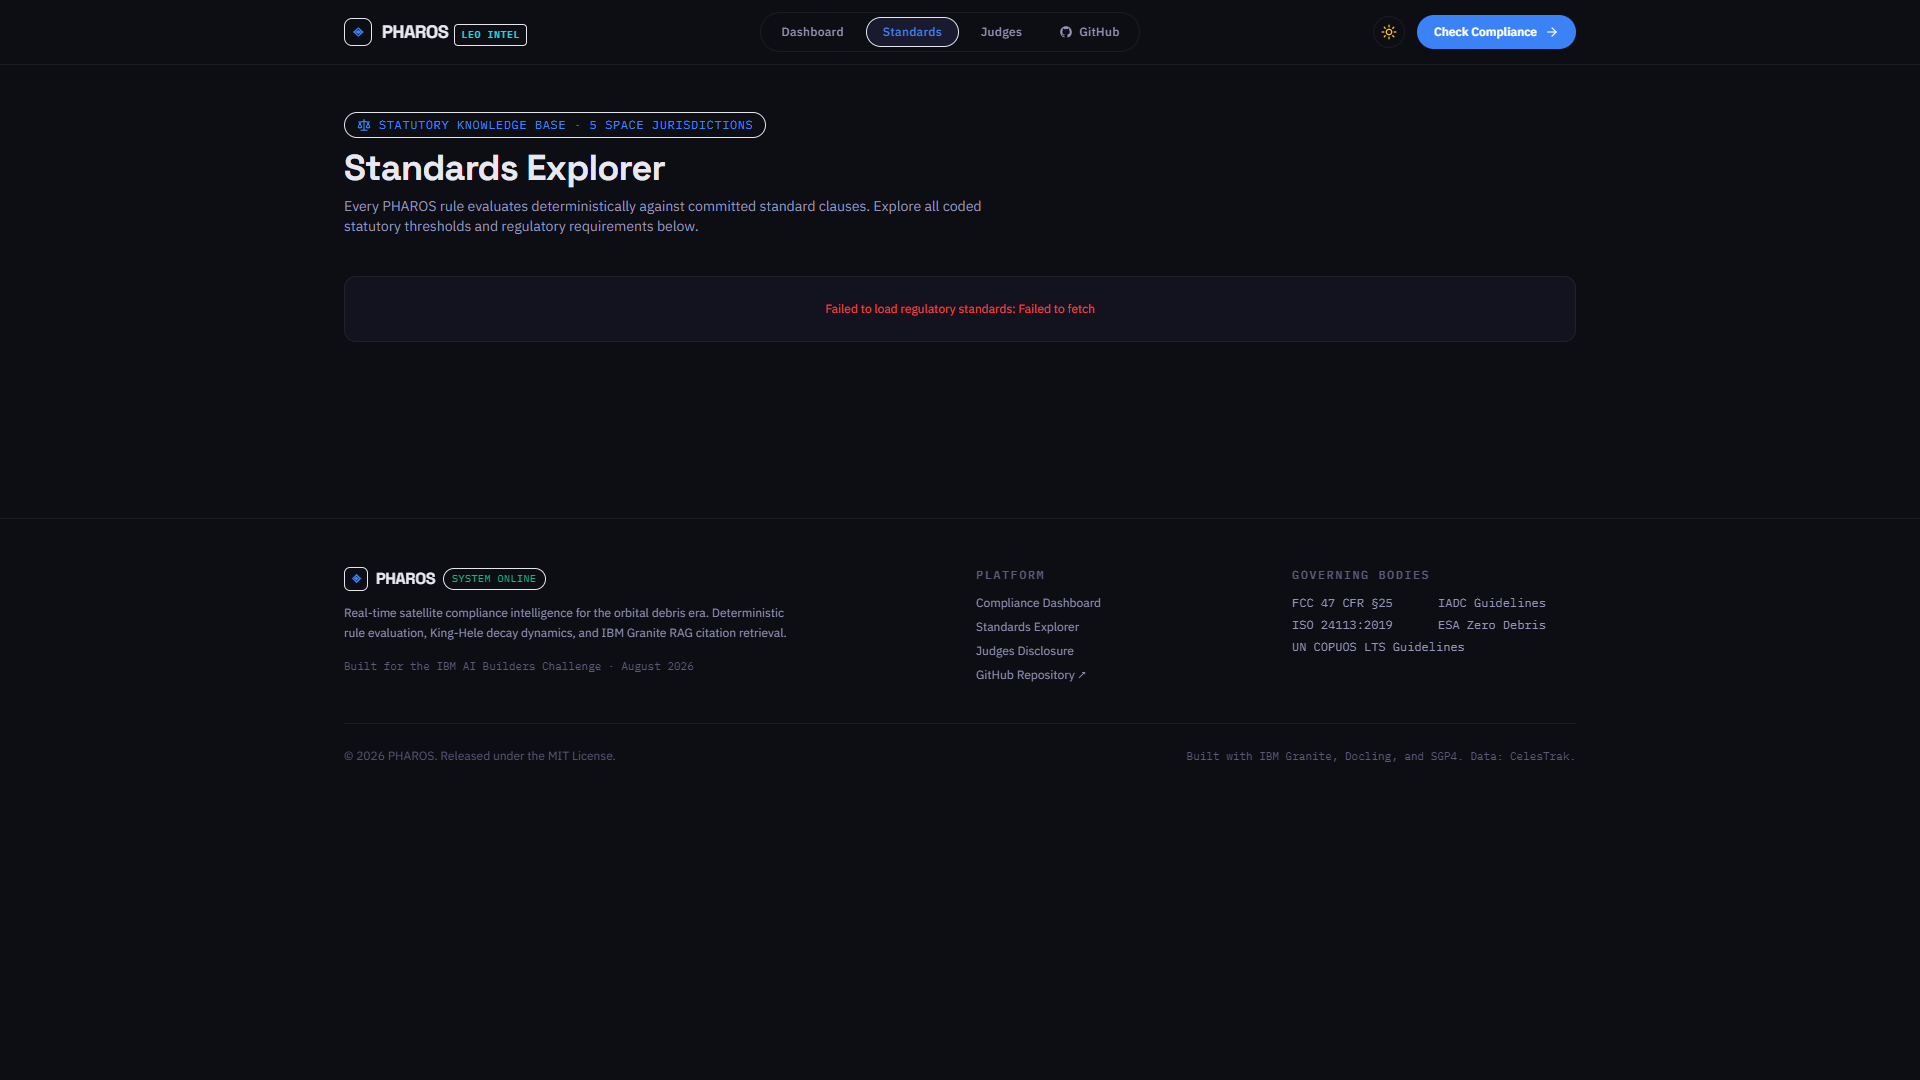
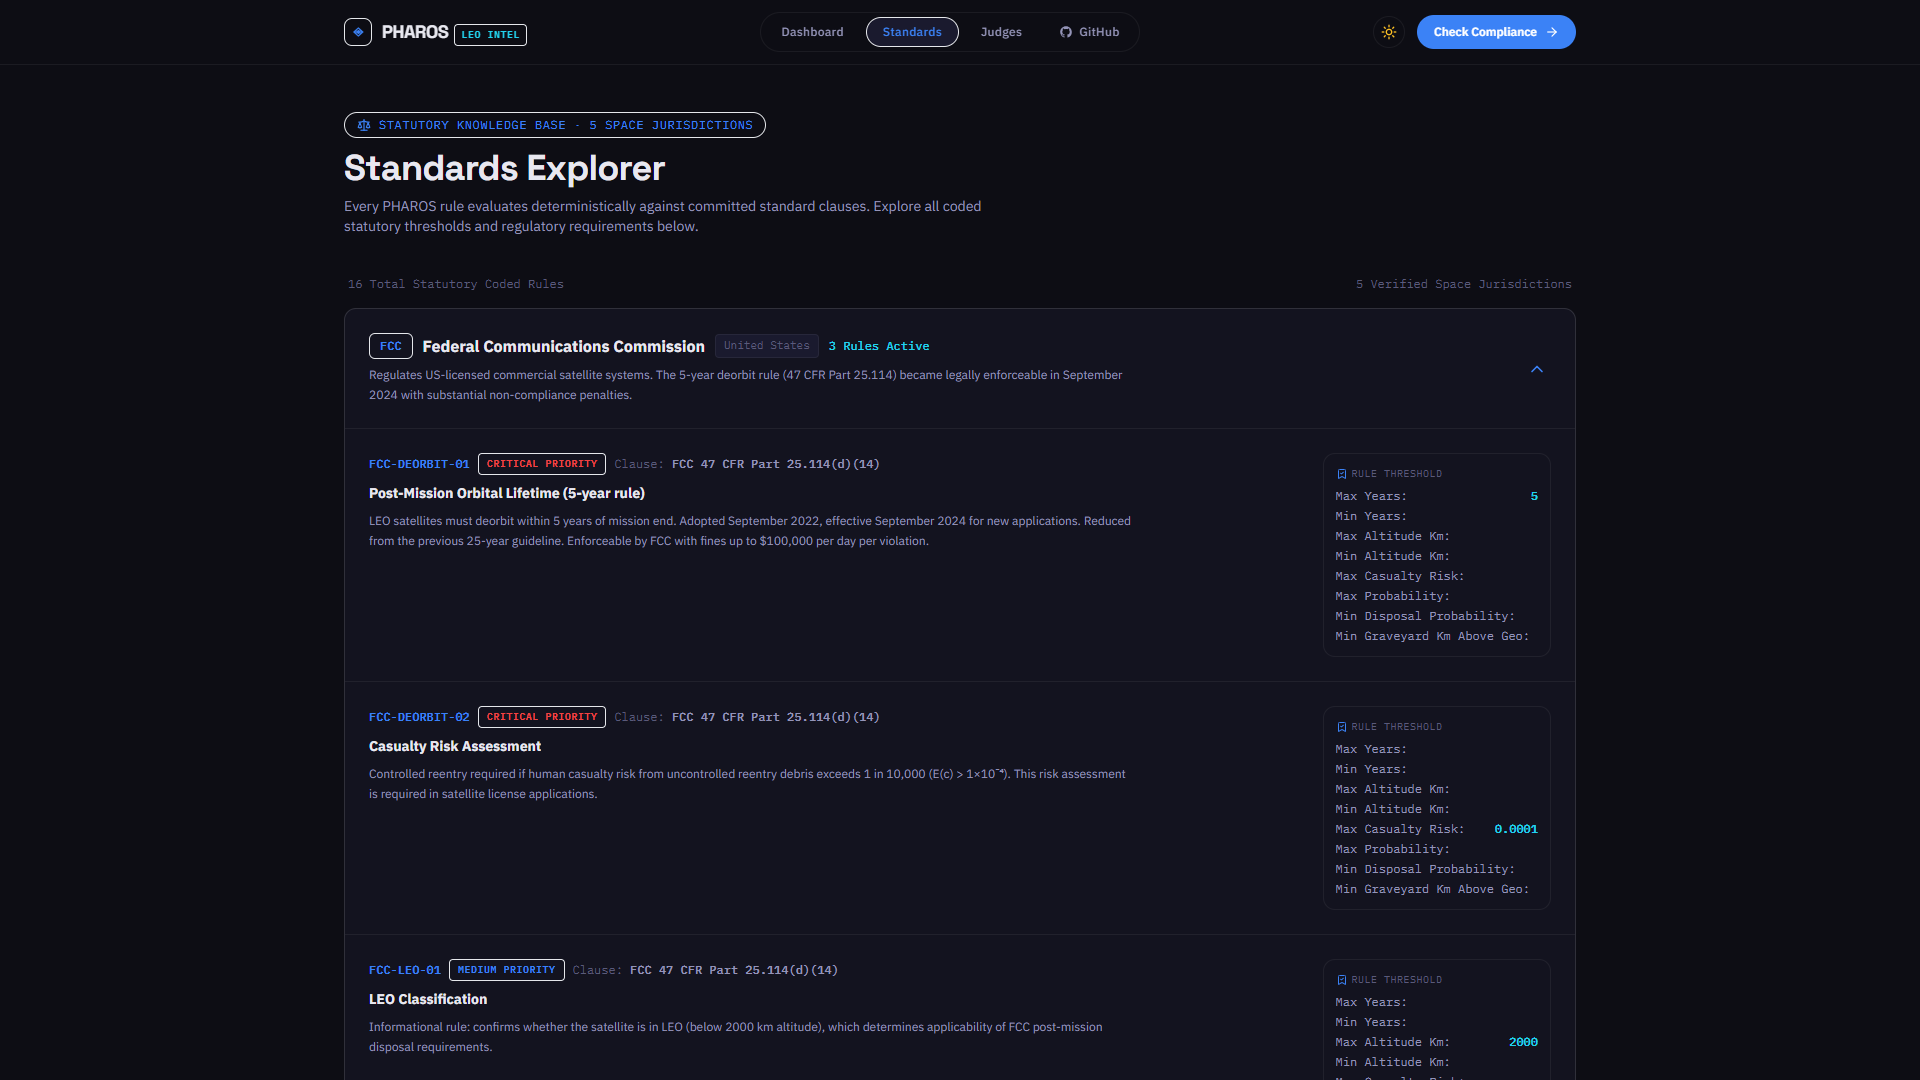
feat(docs,api): standardize 2x2 16:9 product screenshots and bake Replit backend URL into frontend build config

diff --git a/frontend/src/lib/api.ts b/frontend/src/lib/api.ts
@@ -13,7 +13,7 @@ import type {
   HealthResponse,
 } from './types'
 
-const API_BASE = process.env.NEXT_PUBLIC_API_URL || 'http://localhost:8000'
+const API_BASE = process.env.NEXT_PUBLIC_API_URL || 'https://pharos-backend-deployment--ojilerekingsley.replit.app'
 
 class ApiError extends Error {
   constructor(
